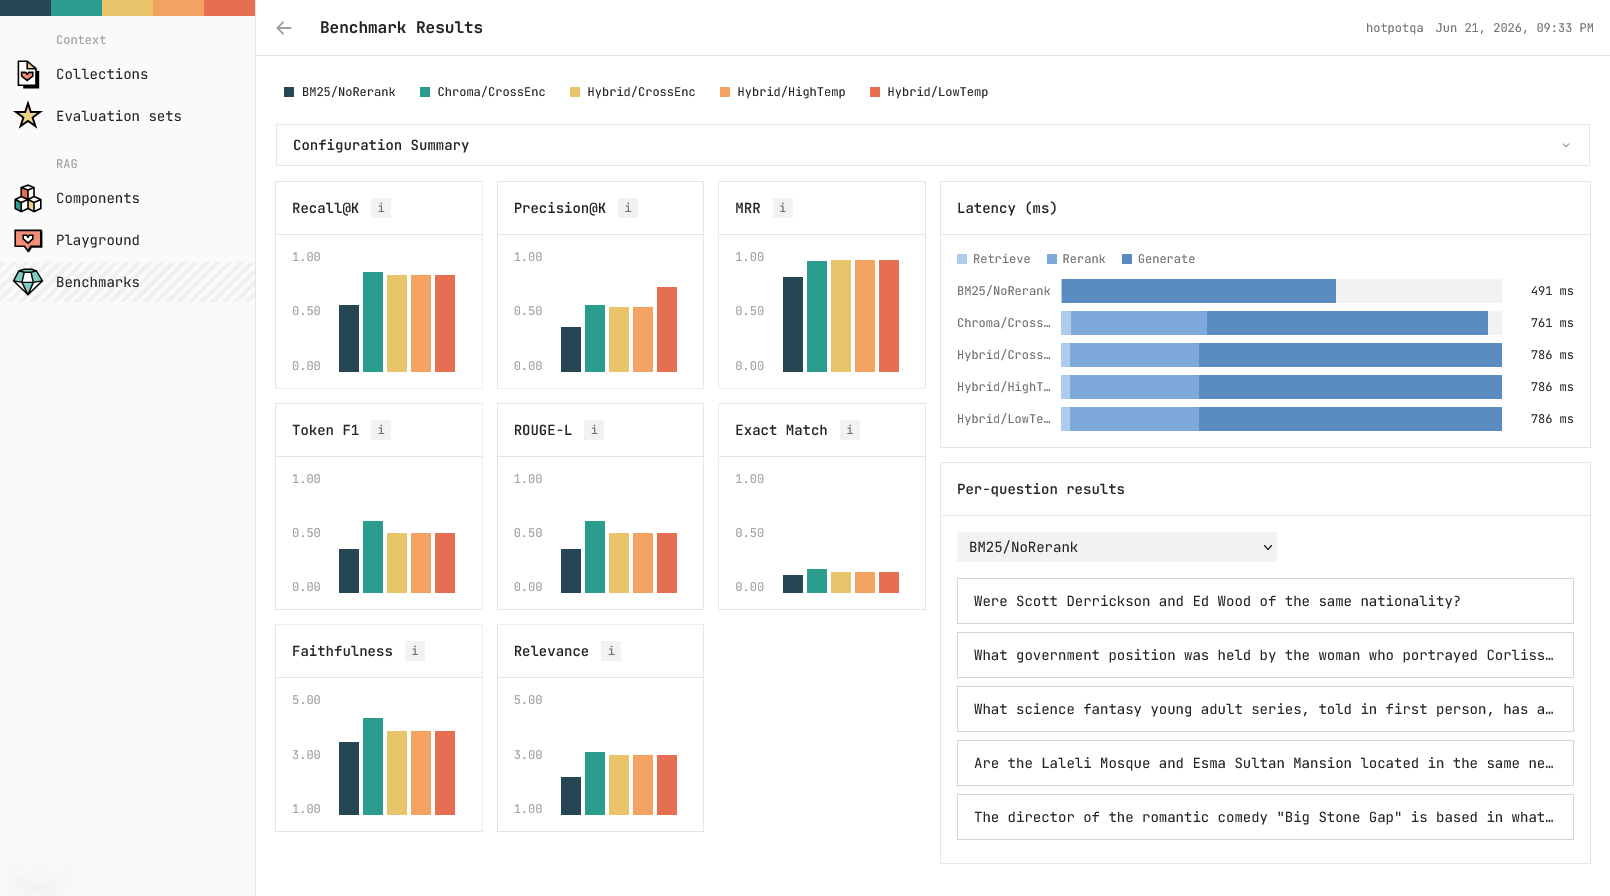
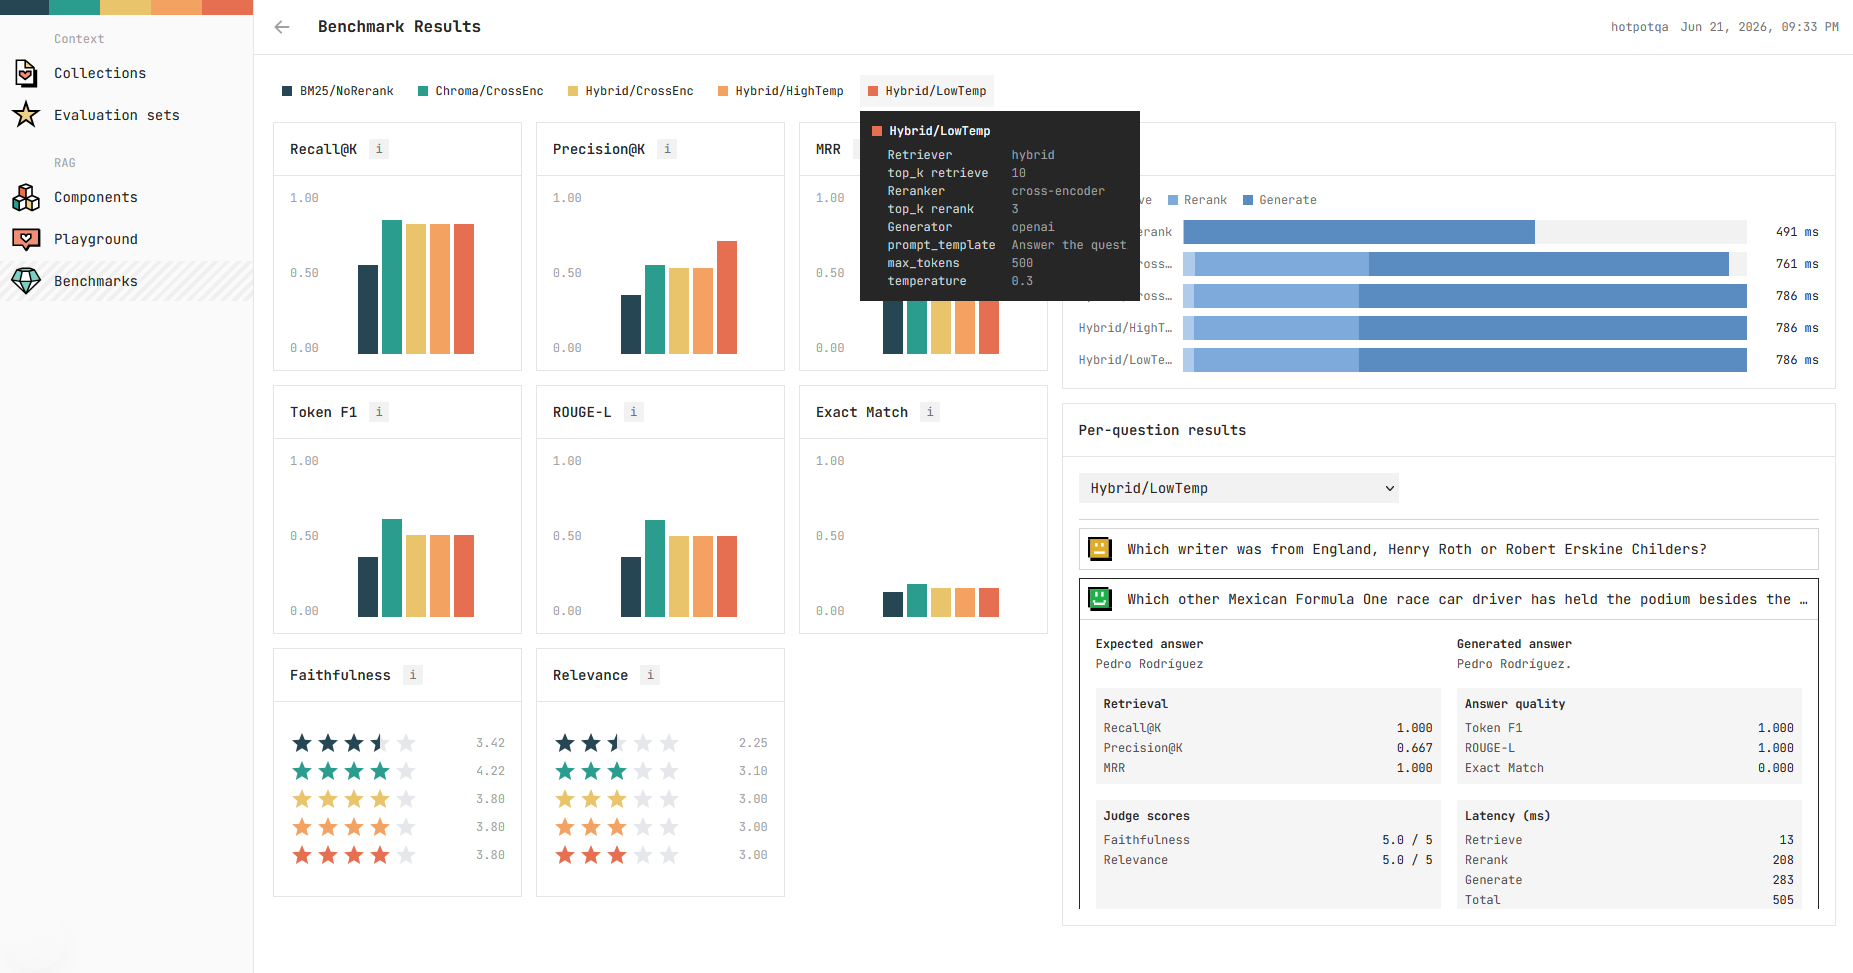
added star rating card

diff --git a/frontend/components/MetricStarRating.tsx b/frontend/components/MetricStarRating.tsx
@@ -1,0 +1,98 @@
+'use client';
+
+import { useId } from 'react';
+
+export interface StarDatum {
+  name: string;
+  value: number;
+}
+
+const STAR_PATH =
+  'M12 17.27L18.18 21l-1.64-7.03L22 9.24l-7.19-.61L12 2 9.19 8.63 2 9.24l5.46 4.73L5.82 21z';
+const EMPTY_COLOR = '#e5e7eb';
+const STAR_SIZE = 24;
+
+function roundToHalf(v: number) {
+  return Math.round(v * 2) / 2;
+}
+
+function StarRow({
+  value,
+  color,
+  name,
+}: {
+  value: number;
+  color: string;
+  name: string;
+}) {
+  const gradientId = useId().replace(/:/g, '_');
+  const rounded = Math.max(1, Math.min(5, roundToHalf(value)));
+  const full = Math.floor(rounded);
+  const hasHalf = rounded % 1 === 0.5;
+  const empty = 5 - full - (hasHalf ? 1 : 0);
+
+  return (
+    <div className="flex items-center justify-between" title={name}>
+      <div className="flex gap-0.5 items-center">
+        {Array.from({ length: full }).map((_, i) => (
+          <svg key={i} viewBox="0 0 24 24" width={STAR_SIZE} height={STAR_SIZE}>
+            <path d={STAR_PATH} fill={color} />
+          </svg>
+        ))}
+        {hasHalf && (
+          <svg viewBox="0 0 24 24" width={STAR_SIZE} height={STAR_SIZE}>
+            <defs>
+              <linearGradient
+                id={gradientId}
+                x1="0"
+                y1="0"
+                x2="24"
+                y2="0"
+                gradientUnits="userSpaceOnUse"
+              >
+                <stop offset="50%" stopColor={color} />
+                <stop offset="50%" stopColor={EMPTY_COLOR} />
+              </linearGradient>
+            </defs>
+            <path d={STAR_PATH} fill={`url(#${gradientId})`} />
+          </svg>
+        )}
+        {Array.from({ length: empty }).map((_, i) => (
+          <svg key={i} viewBox="0 0 24 24" width={STAR_SIZE} height={STAR_SIZE}>
+            <path d={STAR_PATH} fill={EMPTY_COLOR} />
+          </svg>
+        ))}
+      </div>
+      <span className="text-xs tabular-nums text-neutral-400">
+        {value.toFixed(2)}
+      </span>
+    </div>
+  );
+}
+
+export default function MetricStarRating({
+  data,
+  colorOf,
+}: {
+  data: StarDatum[];
+  colorOf: (name: string) => string;
+}) {
+  if (data.length === 0) {
+    return (
+      <p className="text-xs text-neutral-400">No configurations selected.</p>
+    );
+  }
+
+  return (
+    <div className="h-full flex flex-col justify-center gap-1">
+      {data.map((d) => (
+        <StarRow
+          key={d.name}
+          value={d.value}
+          color={colorOf(d.name)}
+          name={d.name}
+        />
+      ))}
+    </div>
+  );
+}

diff --git a/frontend/components/BenchmarkResults.tsx b/frontend/components/BenchmarkResults.tsx
@@ -4,6 +4,7 @@ import { useState } from 'react';
 import { type BenchmarkConfigResult, type BenchConfigSpec } from '@/lib/api';
 import Card from './Card';
 import MetricBarChart from './MetricBarChart';
+import MetricStarRating from './MetricStarRating';
 import BenchmarkLatencyChart from './BenchmarkLatencyChart';
 import BenchmarkQuestionCard from './BenchmarkQuestionCard';
 import BenchmarkLegend from './BenchmarkLegend';
@@ -132,16 +133,26 @@ export default function BenchmarkResults({ results, judge, configs }: Props) {
         <div className="grid xl:grid-cols-2 2xl:grid-cols-3 3xl:grid-cols-4 gap-4 h-fit">
           {METRICS.filter((m) => !m.judge || judge).map((m) => (
             <Card key={m.key} title={m.label} hint={m.subtitle} square>
-              <MetricBarChart
-                subtitle={m.subtitle}
-                data={filtered.map((r) => ({
-                  name: r.config,
-                  value: r.metrics[m.key] ?? 0,
-                }))}
-                colorOf={colorOf}
-                domainMin={m.domainMin}
-                domainMax={m.domainMax}
-              />
+              {m.judge ? (
+                <MetricStarRating
+                  data={filtered.map((r) => ({
+                    name: r.config,
+                    value: r.metrics[m.key] ?? 0,
+                  }))}
+                  colorOf={colorOf}
+                />
+              ) : (
+                <MetricBarChart
+                  subtitle={m.subtitle}
+                  data={filtered.map((r) => ({
+                    name: r.config,
+                    value: r.metrics[m.key] ?? 0,
+                  }))}
+                  colorOf={colorOf}
+                  domainMin={m.domainMin}
+                  domainMax={m.domainMax}
+                />
+              )}
             </Card>
           ))}
         </div>
